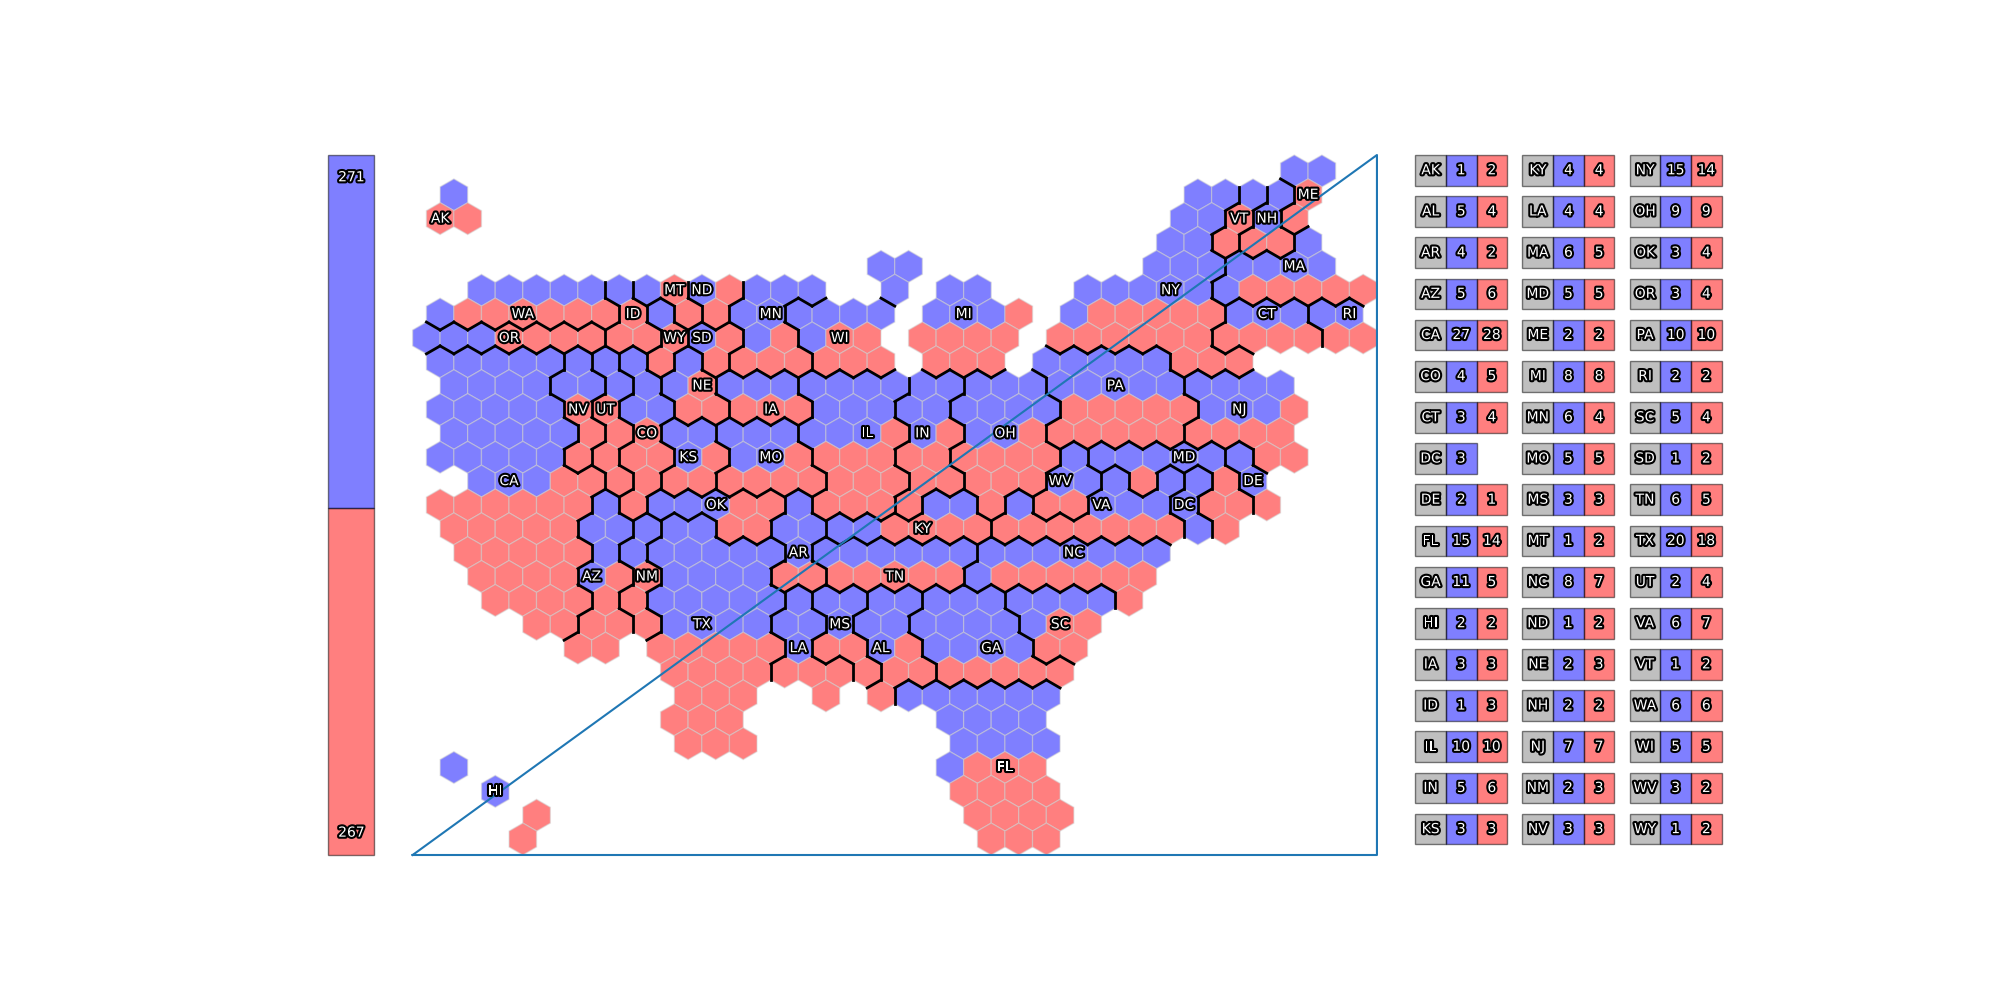
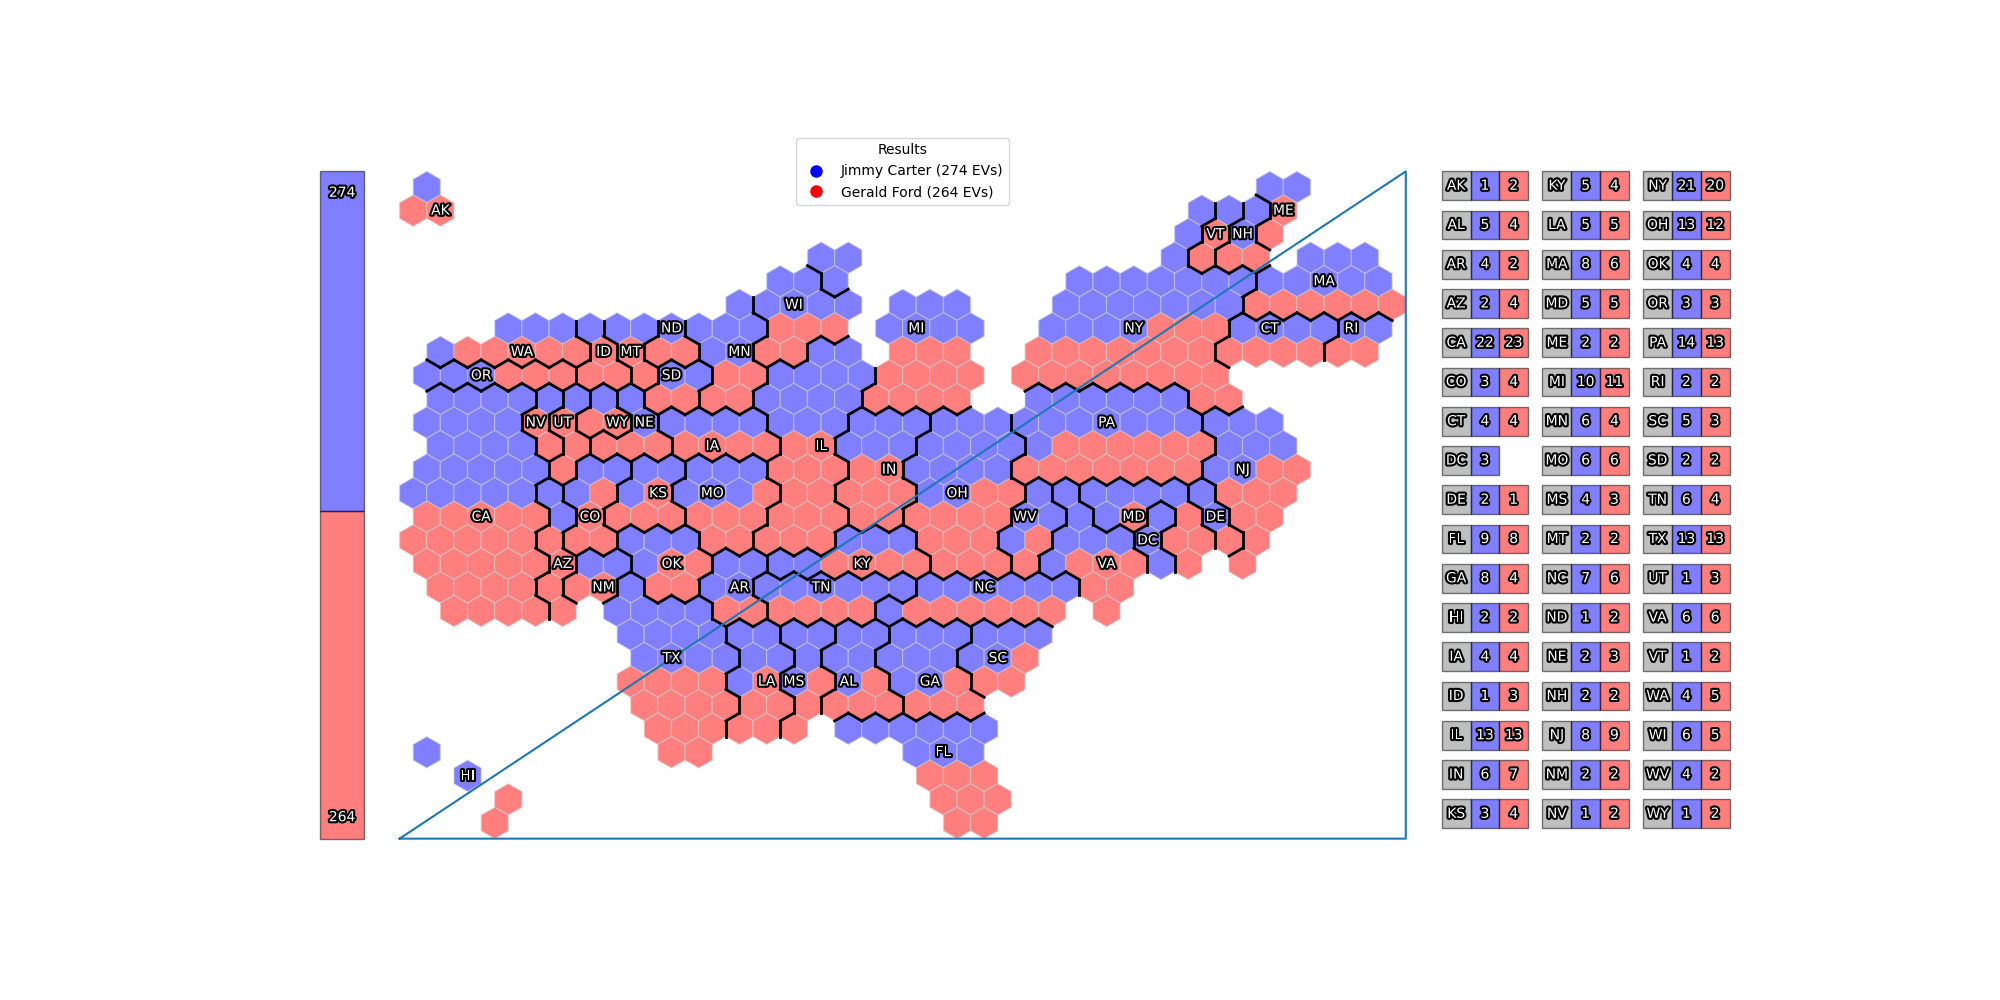
ENH: Add legend with winner

Changed region(s): [[0.155, 0.155, 0.868, 0.868], [0.403, 0.124, 0.496, 0.217]]

diff --git a/src/proportional_ec/draw.py b/src/proportional_ec/draw.py
@@ -194,7 +194,7 @@ def draw_aggregate(
         )
         ax.add_patch(rect)
 
-        if overall_results[candidate] > 50:
+        if overall_results[candidate] > 30:
             x = sub_bar_position[0] + AGGREGATE_BAR_WIDTH / 2
             if i == 0:
                 y = sub_bar_position[1] + AGGREGATE_TEXT_OFFSET
@@ -334,6 +334,58 @@ def get_extremities(
     return Extremities(top, bottom, left, right)
 
 
+def normalise_name(candidate: Candidate) -> str:
+    candidate.replace('""', '"')
+
+    is_junior = candidate.endswith("JR")
+    candidate.strip(" JR")
+
+    candidate = candidate.title()
+    candidate = " ".join(reversed(candidate.split(", ")))
+
+    if is_junior:
+        candidate += " Jr."
+    return candidate
+
+
+def draw_legend(
+    ax: plt.Axes,
+    extremities: Extremities,
+    overall_results: dict[Candidate, Seats],
+    candidate_party: dict[Candidate, Party],
+    candidate_order: Sequence[Candidate],
+) -> None:
+    handles = []
+    for candidate in candidate_order:
+        party_colour = PARTY_COLOUR[candidate_party[candidate]]
+        handles.append(
+            plt.Line2D(
+                [0],
+                [0],
+                marker="o",
+                color="w",
+                markerfacecolor=party_colour,
+                markersize=10,
+                label=f"{normalise_name(candidate)} ({overall_results[candidate]} EVs)",
+            ),
+        )
+    # ax.legend(handles=handles, loc=(0.37, 0.88), title="Results")
+    xlim = ax.get_xlim()
+    ylim = ax.get_ylim()
+
+    # Convert physical coordinates to data coordinates
+    normalized_x = (
+        extremities.left + (extremities.right - extremities.left) / 2 - xlim[0]
+    ) / (xlim[1] - xlim[0])
+    normalized_y = (extremities.top - ylim[0]) / (ylim[1] - ylim[0])
+    ax.legend(
+        handles=handles,
+        loc="center",
+        bbox_to_anchor=(normalized_x, normalized_y),
+        title="Results",
+    )
+
+
 def draw_ec_map(
     topo_file: str | Path,
     state_seats: dict[StatePo, dict[Candidate, Seats]],
@@ -378,6 +430,7 @@ def draw_ec_map(
     )
 
     draw_aggregate(ax, extremities, overall_results, candidate_party, candidate_order)
+    draw_legend(ax, extremities, overall_results, candidate_party, candidate_order)
 
     ax.autoscale_view()
     ax.set_aspect("equal")

diff --git a/ec.py b/ec.py
@@ -18,17 +18,15 @@ if __name__ == "__main__":
     )
 
     for year in year_candidate_totals:
-        # year = 2020
-
         election_results = run_election(
             run_droop_quota_largest_remainder,
             year_candidate_totals[year],
-            year_ec_votes[2020],
+            year_ec_votes[year],
         )
         overall_results = aggregate_election_results(election_results)
 
         print(year, overall_results)
 
-        topo_file = Path(f"data/topo_data/tiles{2020}.topo.json")
+        topo_file = Path(f"data/topo_data/tiles{year}.topo.json")
         draw_ec_map(topo_file, election_results, year_candidate_party[year])
         # break
